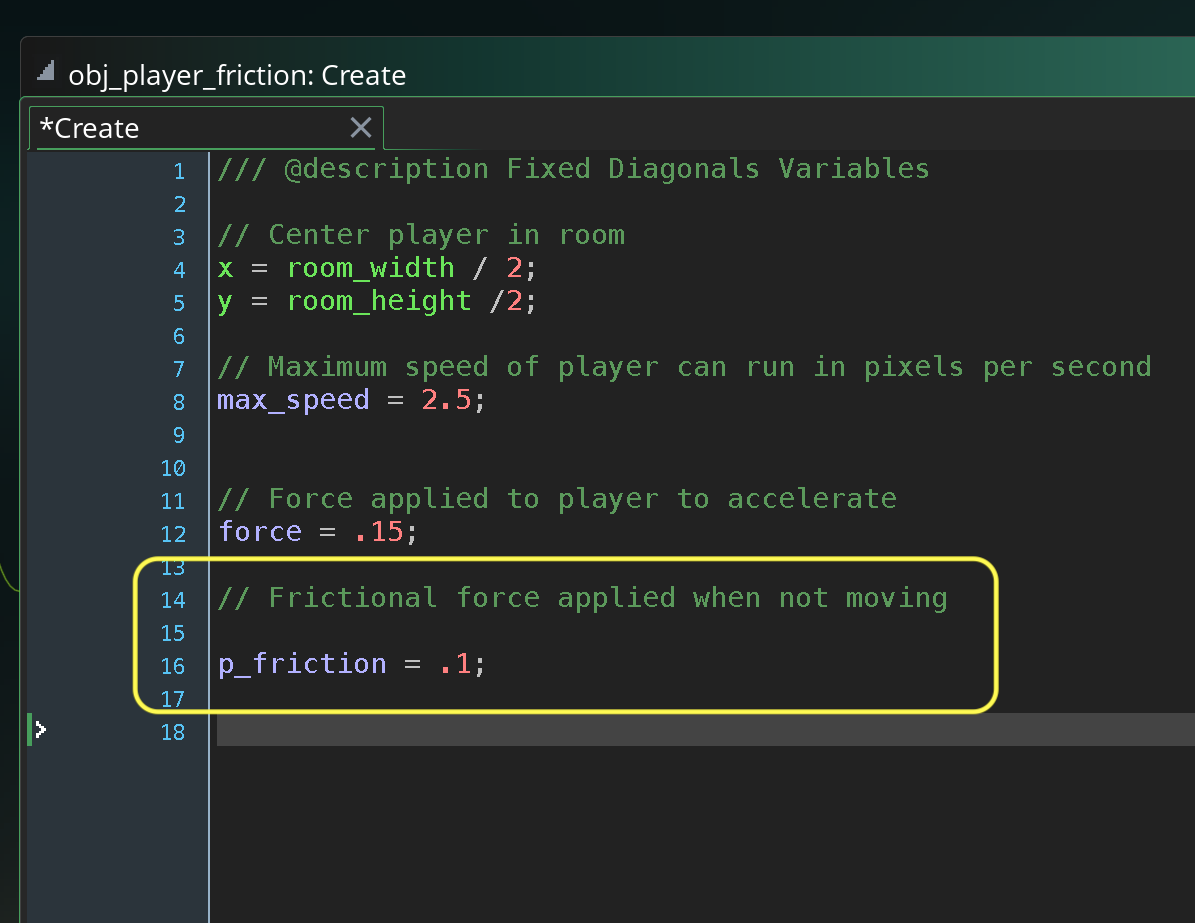
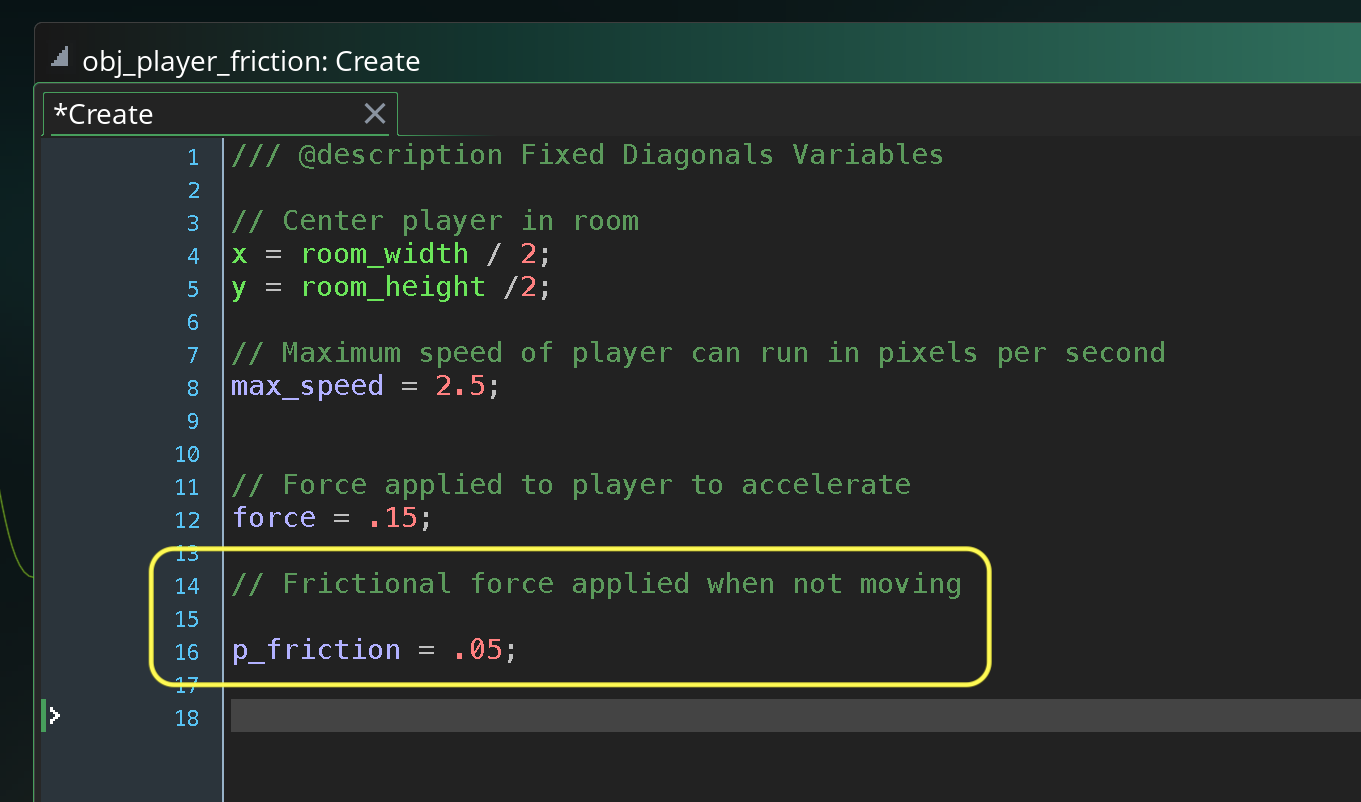
Update updating moving 8 directions

Changed region(s): [[0.0, 0.0, 1.0, 1.0], [0.6192, 0.3741, 0.9598, 0.4676], [0.5264, 0.4364, 0.5883, 0.4676]]

diff --git a/breaking-friction/README.md b/breaking-friction/README.md
@@ -39,7 +39,9 @@ Open up **obj_player_friction | Create** event and add a variable for friction c
 
 ##### `Step 4.`\|`MI8D`|:small_blue_diamond: :small_blue_diamond: :small_blue_diamond: :small_blue_diamond:
 
-![alt_text](images/.png)
+Now open up the **Step** event and lets replace setting the speed to `0` when the player is not moving to reducing the velocity by a small frictional force `p_friction`.
+
+![step event subtract p_friction from speed](images/elseStep.png)
 
 <img src="https://via.placeholder.com/500x2/45D7CA/45D7CA" alt="drawing" height="2px" alt = ""/>
 
